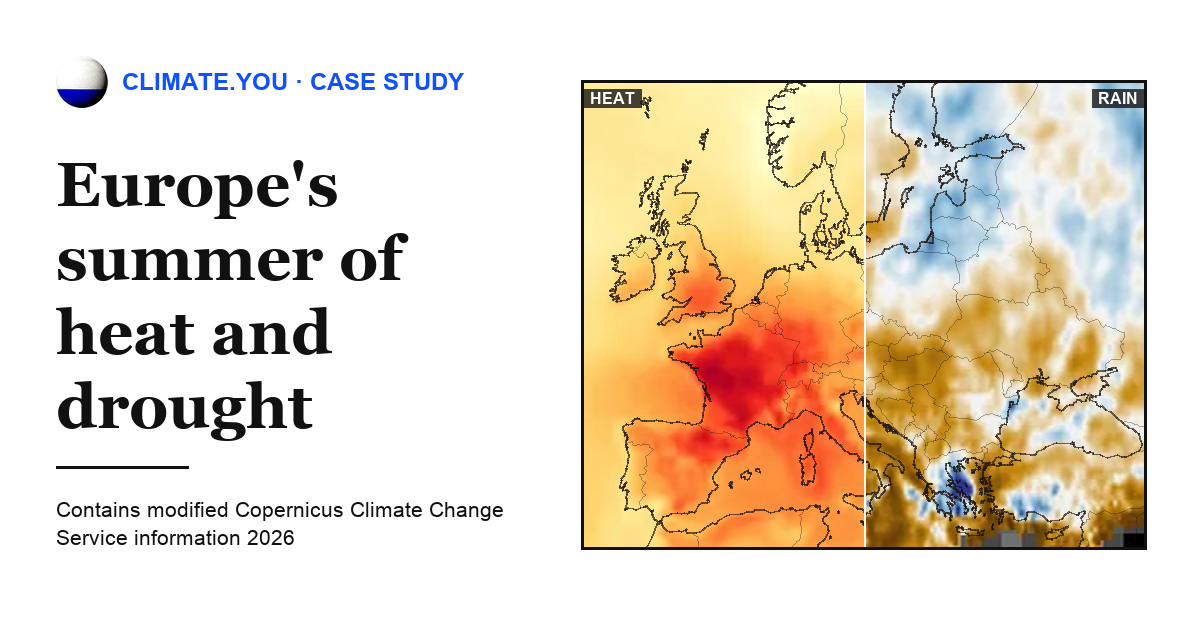
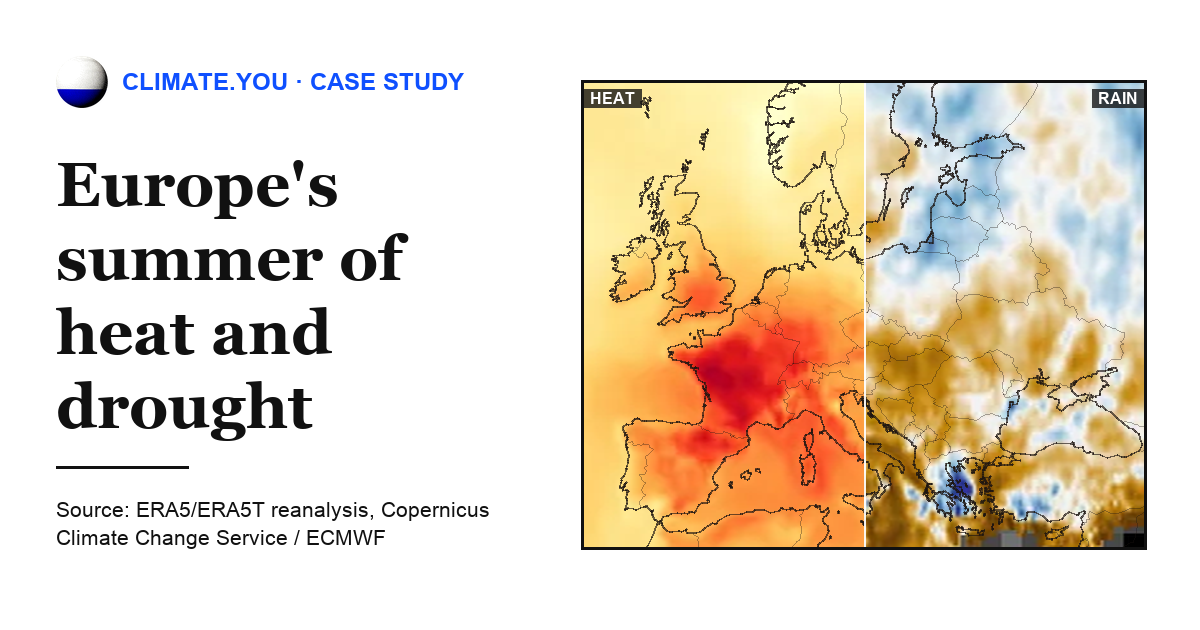
Credit ERA5 as a short source line on exported images and social cards
Downloaded charts and maps, and both stories' social cards, now carry a short source credit naming ERA5/ERA5T, Copernicus and ECMWF, which the Copernicus licence allows in place of its formal notice. The pages keep the formal notice for modified products alongside the no-endorsement statement.

- Credit "ERA5/ERA5T reanalysis, Copernicus Climate Change Service / ECMWF" on every exported image, from one shared string
- Regenerate both social cards with the same credit
- Use the notice for modified products in the page footers, matching the header line

Changed region(s): [[0.0308, 0.7841, 0.4317, 0.8746]]

diff --git a/web/src/content/stories/summer-2026-heat-and-drought/SummerStory.tsx b/web/src/content/stories/summer-2026-heat-and-drought/SummerStory.tsx
@@ -16,6 +16,7 @@ import {
   downloadAnomalyMap,
   downloadAnomalyMapPair,
 } from "@/lib/story/anomalyMapRender";
+import { ERA5_SOURCE } from "@/lib/story/download";
 import GlobeBoundary from "@/components/story/GlobeBoundary";
 import ShareButton from "@/components/story/ShareButton";
 import SwipeCompare from "@/components/story/SwipeCompare";
@@ -59,9 +60,6 @@ const EUROPE_LINES = "/story/europe-lines.json";
 const WORLD_LINES = "/story/world-lines.json";
 // Rainfall is a land story here, so the hemisphere map knocks the sea out.
 const LAND_MASK = "/story/land-mask-mercator.png";
-// The Copernicus licence prescribes this wording for modified products.
-const ATTRIB =
-  "Contains modified Copernicus Climate Change Service information 2026";
 const RAIN_SCALE = ["#5c3708", "#c98a10", "#f7f7f7", "#74add1", "#313695"];
 const HEAT_SCALE = [
   "#ffffcc",
@@ -287,7 +285,7 @@ export default function SummerStory() {
           "1 June – 15 August 2026 as a percentage of the " +
           BASE_LABEL +
           " normal, over land",
-        sourceText: ATTRIB,
+        sourceText: ERA5_SOURCE,
         scale: { min: "0%", max: "200% of normal", colors: RAIN_SCALE },
       },
       "summer-2026-rainfall-northern-hemisphere.png",
@@ -323,7 +321,7 @@ export default function SummerStory() {
           "ERA5 2 m air temperature (t2m) and total precipitation (tp), " +
           "1 June – 15 August 2026 against " +
           BASE_LABEL,
-        sourceText: ATTRIB,
+        sourceText: ERA5_SOURCE,
       },
       "summer-2026-heat-and-rain.png",
     );
@@ -955,10 +953,10 @@ export default function SummerStory() {
         <div className={s.rights}>
           <h2 className={s.footHead}>Attribution and rights</h2>
           <p>
-            Generated using Copernicus Climate Change Service information 2026.
-            Neither the European Commission nor ECMWF is responsible for any use
-            that may be made of the Copernicus information or data this page
-            contains.
+            Contains modified Copernicus Climate Change Service information
+            2026. Neither the European Commission nor ECMWF is responsible for
+            any use that may be made of the Copernicus information or data this
+            page contains.
           </p>
           <p>
             © 2026 Benoit Leveau & Fanny Chaléon. This article, its figures, and

diff --git a/web/src/content/stories/june-2026-heatwave/HeatwaveStory.tsx b/web/src/content/stories/june-2026-heatwave/HeatwaveStory.tsx
@@ -5,6 +5,7 @@ import type { MapLayerOption } from "@/components/MapLibreGlobe";
 import { useReleaseResolution } from "@/hooks/explorer/useReleaseResolution";
 import type { ReleaseLayer } from "@/hooks/explorer/useReleaseResolution";
 import { type Bbox, DEFAULT_MERCATOR_LAT_MAX } from "@/lib/story/mercator";
+import { ERA5_SOURCE } from "@/lib/story/download";
 import GlobeBoundary from "@/components/story/GlobeBoundary";
 import ShareButton from "@/components/story/ShareButton";
 import { downloadAnomalyMap } from "@/lib/story/anomalyMapRender";
@@ -20,9 +21,6 @@ const LINES_URL = "/story/europe-lines.json";
 const EUROPE_BBOX: Bbox = { west: -10, south: 37, east: 30, north: 54 };
 // Tighter frame for the globe (span ~21° → zoom 4), centred on Europe.
 const GLOBE_BBOX: [number, number, number, number] = [-4, 37, 17, 55];
-// The Copernicus licence prescribes this wording for modified products.
-const ATTRIB_BASE =
-  "Contains modified Copernicus Climate Change Service information 2026";
 // YlOrRd palette used by the anomaly maps (0 → +12 °C).
 const SCALE_COLORS = [
   "#ffffcc",
@@ -183,7 +181,7 @@ export default function HeatwaveStory() {
         },
         {
           title: `Temperature anomaly over Europe, ${def.dates} 2026`,
-          sourceText: ATTRIB_BASE,
+          sourceText: ERA5_SOURCE,
           scale: {
             min: "0°C",
             max: "+12°C above normal",
@@ -343,7 +341,7 @@ export default function HeatwaveStory() {
         </p>
         <HeatwaveChart
           title="Daily temperature anomaly · June–July 2026"
-          sourceText="Contains modified Copernicus Climate Change Service information 2026"
+          sourceText={ERA5_SOURCE}
         />
         <p className={styles.cities}>
           <b>Cities included:</b> Paris, London, Madrid, Barcelona, Lisbon,
@@ -379,7 +377,7 @@ export default function HeatwaveStory() {
           European cities. Data runs through 13 July 2026.
         </p>
         <p className={styles.copyright}>
-          Generated using Copernicus Climate Change Service information 2026.
+          Contains modified Copernicus Climate Change Service information 2026.
           Neither the European Commission nor ECMWF is responsible for any use
           that may be made of the Copernicus information or data this page
           contains.

diff --git a/web/src/lib/story/download.ts b/web/src/lib/story/download.ts
@@ -4,6 +4,13 @@
 
 const LOGO_URL = "/story/logo.png";
 
+// The source credit on exported images, and on the stories' social cards.
+// The Copernicus licence asks for its notice "or any similar notice"; the page
+// itself carries the full notice and the no-endorsement statement. ERA5T is
+// the provisional release of the most recent months, which 2026 figures use.
+export const ERA5_SOURCE =
+  "Source: ERA5/ERA5T reanalysis, Copernicus Climate Change Service / ECMWF";
+
 export type DownloadScale = {
   min: string;
   max: string;
@@ -155,9 +162,8 @@ export async function composeAndDownload(
   const fontPx = Math.round(stripH * 0.42);
   ctx.textBaseline = "middle";
   ctx.fillStyle = "#111111";
-  // The Copernicus licence wording is a long sentence rather than a short
-  // credit, so it is set smaller and greyer than the brand it sits opposite,
-  // and shrinks further if it would otherwise reach the brand.
+  // The source credit is set smaller and greyer than the brand it sits
+  // opposite, and shrinks further if it would otherwise reach the brand.
   const sourcePx = Math.round(stripH * 0.3);
   ctx.font = `400 ${sourcePx}px ${SANS}`;
   ctx.fillStyle = "#555555";

diff --git a/web/src/content/stories/summer-2026-heat-and-drought/charts.tsx b/web/src/content/stories/summer-2026-heat-and-drought/charts.tsx
@@ -8,7 +8,7 @@ import {
   type ReactNode,
 } from "react";
 import DownloadIcon from "@/components/story/DownloadIcon";
-import { downloadSvgWithAttribution } from "@/lib/story/download";
+import { downloadSvgWithAttribution, ERA5_SOURCE } from "@/lib/story/download";
 import storyStyles from "@/components/story/story.module.css";
 import s from "./summerStory.module.css";
 import {
@@ -21,10 +21,6 @@ import {
 
 // Every chart reads from data.json and draws its own SVG; none of them call
 // the API. See docs/runbooks/case-study-data.md for how that file is made.
-
-// The Copernicus licence prescribes this wording for modified products.
-const SOURCE =
-  "Contains modified Copernicus Climate Change Service information 2026";
 
 /**
  * True while the chart column is too narrow for the wide geometry.
@@ -130,7 +126,7 @@ function Frame({
     try {
       downloadSvgWithAttribution(
         svg,
-        { title, subtitle, sourceText: SOURCE },
+        { title, subtitle, sourceText: ERA5_SOURCE },
         filename,
       );
     } finally {

diff --git a/scripts/make_story_og_image.py b/scripts/make_story_og_image.py
@@ -126,9 +126,10 @@ def main() -> int:
     ap.add_argument("--kicker", default="climate.you · Case study")
     ap.add_argument(
         "--source",
-        default="Contains modified Copernicus Climate Change Service information 2026",
-        help="Attribution line. The Copernicus licence prescribes this wording "
-        "for products derived from its data.",
+        default="Source: ERA5/ERA5T reanalysis, Copernicus Climate Change Service / ECMWF",
+        help="Source credit, the same one exported images carry. The Copernicus "
+        "licence asks for its notice or any similar notice; the page carries "
+        "the full notice.",
     )
     ap.add_argument(
         "--texture-right",
@@ -254,8 +255,8 @@ def main() -> int:
     title_font = font(_SERIF_BOLD, 62)
     source_font = font(_SANS, 21)
     lines = wrap(args.title, title_font, text_w)
-    # The attribution is a sentence, not a short credit, so it wraps inside the
-    # text column instead of running on under the map.
+    # The source credit wraps inside the text column instead of running on
+    # under the map.
     source_lines = wrap(args.source, source_font, text_w)
     line_h, rule_gap, source_gap, source_line_h = 74, 22, 30, 28
     block_h = (

diff --git a/docs/runbooks/case-study-data.md b/docs/runbooks/case-study-data.md
@@ -188,11 +188,26 @@ citation markers and the blue emphasis.
 
 ## Attribution
 
-The Copernicus licence prescribes the wording for derived products. Pages and
-exported images carry:
+The [Copernicus licence](https://apps.ecmwf.int/datasets/licences/copernicus/)
+(clause 5.1) asks for "clear and visible attribution", with a given notice "or
+any similar notice", plus a statement that neither the European Commission nor
+ECMWF is responsible for any use of the data (5.1.3).
 
-> Contains modified Copernicus Climate Change Service information \<year\>
+- **The page** carries the formal notice for modified products in its header
+  line and in the footer, with the no-endorsement statement:
 
-and the page also carries the no-endorsement note the licence asks for. Do not
+  > Contains modified Copernicus Climate Change Service information \<year\>
+
+- **Exported images and the social card** carry a short credit instead,
+  `ERA5_SOURCE` in `web/src/lib/story/download.ts` (and the OG script's
+  `--source` default):
+
+  > Source: ERA5/ERA5T reanalysis, Copernicus Climate Change Service / ECMWF
+
+  ERA5T is the provisional release of the most recent months, which ECMWF
+  replaces with final ERA5 two to three months later. Name it while a figure
+  uses data from it; drop it if the data is refreshed with final ERA5.
+
+Do not
 embed the ECMWF or Copernicus logos: ECMWF's terms permit the logo for linking
 to their site and no other purpose, and a logo on a figure reads as endorsement.
